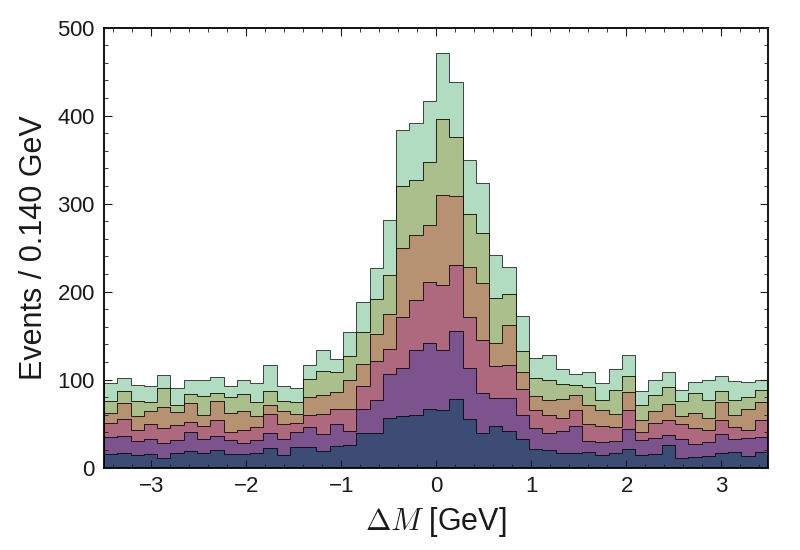
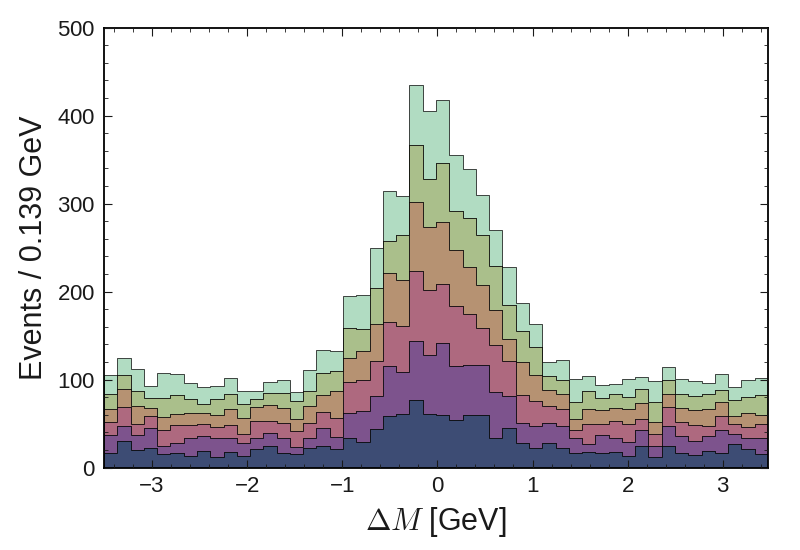
Some work on documentation and examples

diff --git a/examples/data_comparison.py b/examples/data_comparison.py
@@ -7,26 +7,29 @@ actual data.
 In this very brief script we create two sets of data and compare them in one plot.
 
 """
-
-import matplotlib
-matplotlib.use('Agg')
 import matplotlib.pyplot as plt
-import sciplot
+import sciplot as sp
+import matplotlib
+import numpy as np
+
+
+matplotlib.use('Agg')
 
 try:
     plt.style.use('sciplot')
 except OSError:
     print("Please install sciplot matplotlib style")
 
-import numpy as np
-
+# Create some pseudo data
 simulation_data = np.append(np.random.random_sample(100)*7 - 3.5, np.random.normal(0, 0.5, 100))
 data = np.append(np.random.random_sample(100)*7 - 3.5, np.random.normal(0, 0.4, 100))
 
-sciplot.errorhist(simulation_data, color='black', label='Pseudo Simulation')
-sciplot.hist(data, fill=True, lw=2, style=1, label='Pseudo Data')
+# Plot both datasets with sciplot
+sp.figure()
+sp.errorhist(simulation_data, bins=30, color='black', label='Pseudo Simulation')
+sp.hist(data, fill=True, style=0, label='Pseudo Data')
 
 plt.legend()
-sciplot.xlim()
-sciplot.labels('E', "Events", "GeV", 1)
-sciplot.save("data_comparison.pdf")
+sp.xlim()
+sp.labels('$\Delta M$', "Events", "GeV", 0)
+sp.save("data_comparison.png")

diff --git a/examples/stacked_plot.py b/examples/stacked_plot.py
@@ -7,28 +7,24 @@ actual data.
 In this very brief script we create two sets of data and compare them in one plot.
 
 """
-
-import matplotlib
-matplotlib.use('Agg')
 import matplotlib.pyplot as plt
 import sciplot as sp
 import pandas as pd
+import numpy as np
 
 try:
     plt.style.use('sciplot_ticks')
 except OSError:
     print("Please install sciplot matplotlib style")
 
-import numpy as np
-
+# Create some pseudo data
 nb = 5000
 ns = 3000
-
-df = {'mass': np.append(np.random.random_sample(nb)*7 - 3.5, np.random.normal(0, 0.5, ns))}
+df = dict({'mass': np.append(np.random.random_sample(nb)*7 - 3.5, np.random.normal(0, 0.5, ns))})
 df['exp'] = np.random.randint(0, 6, ns+nb)
-
 df = pd.DataFrame(df)
 
+# Automatic creation of a stacked plot of 'mass' split by values of 'exp'
 sp.stacked(df, "mass", 'exp', bins=50,)
 
 sp.xlim()

diff --git a/docs/index.rst b/docs/index.rst
@@ -9,6 +9,78 @@ This is the documentation of **sciplot**.
     This project is in development.
 
 
+Sciplot offers additional features to matplotlib for making scientific plots, such as histograms and graphs.
+One of the major features is the builtin :code:`hist` function for plotting multiple histograms and graphs on the same
+x-axis with the same binning.
+This package is intended to be used alongside with matplotlib.
+
+Example
+-------
+
+Simple fit and plot of a Gaussian Distribution:
+
+.. code-block:: python
+   import matplotlib.pyplot as plt
+   import sciplot as sp
+
+   plt.style.use('sciplot')
+
+   import numpy as np
+
+   simulation_data = np.append(np.random.random_sample(100)*7 - 3.5, np.random.normal(0, 0.5, 100))
+   data = np.append(np.random.random_sample(100)*7 - 3.5, np.random.normal(0, 0.4, 100))
+
+   sp.errorhist(simulation_data, bins=30, color='black', label='Pseudo Simulation')
+   sp.hist(data, fill=True, style=1, label='Pseudo Data')
+
+   plt.legend()
+   sp.labels('E', "Events", "GeV", 1)
+   sp.save("example.png")
+
+The produced output will look like this:
+
+.. figure:: http://www.desy.de/~swehle/sciplot.png
+   :scale: 30 %
+   :alt: Output of the example plot.
+
+Another feature is the automaitc creation of stacked histograms:
+
+.. code-block:: python
+   import matplotlib.pyplot as plt
+   import sciplot as sp
+   import pandas as pd
+   import numpy as np
+
+
+   plt.style.use('sciplot_ticks')
+
+   # Create some pseudo data
+   nb = 5000
+   ns = 3000
+   df = dict({'mass': np.append(np.random.random_sample(nb)*7 - 3.5, np.random.normal(0, 0.5, ns))})
+   df['exp'] = np.random.randint(0, 6, ns+nb)
+   df = pd.DataFrame(df)
+
+   # Automatic creation of a stacked plot of 'mass' split by values of 'exp'
+   sp.stacked(df, "mass", 'exp', bins=50,)
+
+   sp.xlim()
+   sp.labels('$\Delta M$', "Events", "GeV", 0)
+   sp.save("stacked_plot.png")
+
+The produced output will look like this:
+
+.. figure:: http://www.desy.de/~swehle/sciplot2.png
+   :scale: 30 %
+   :alt: Output of the example stacked plot.
+
+
+Installation
+============
+
+This package will be made available for pip.
+
+
 Contents
 ========
 
